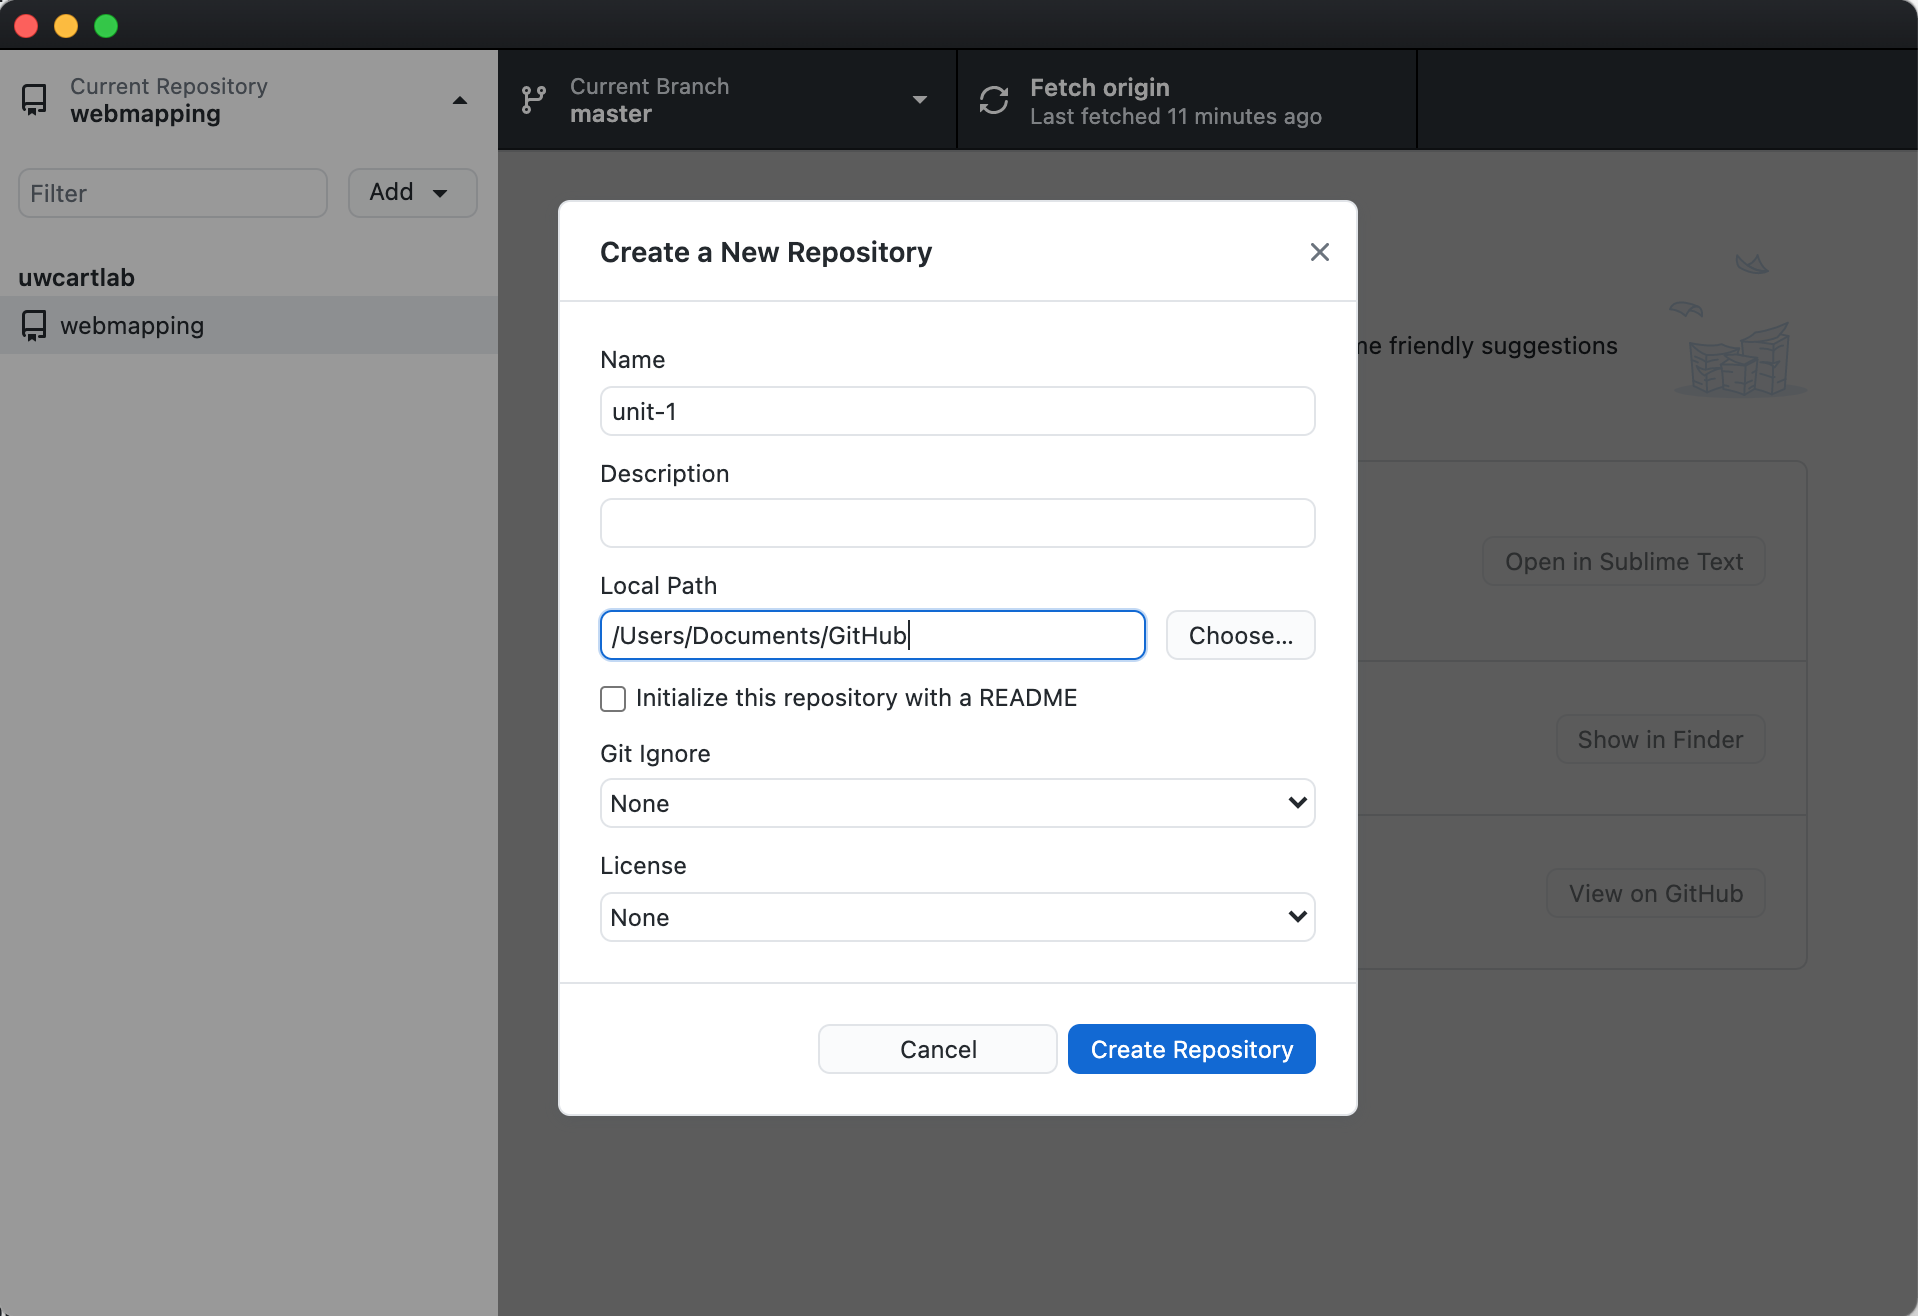
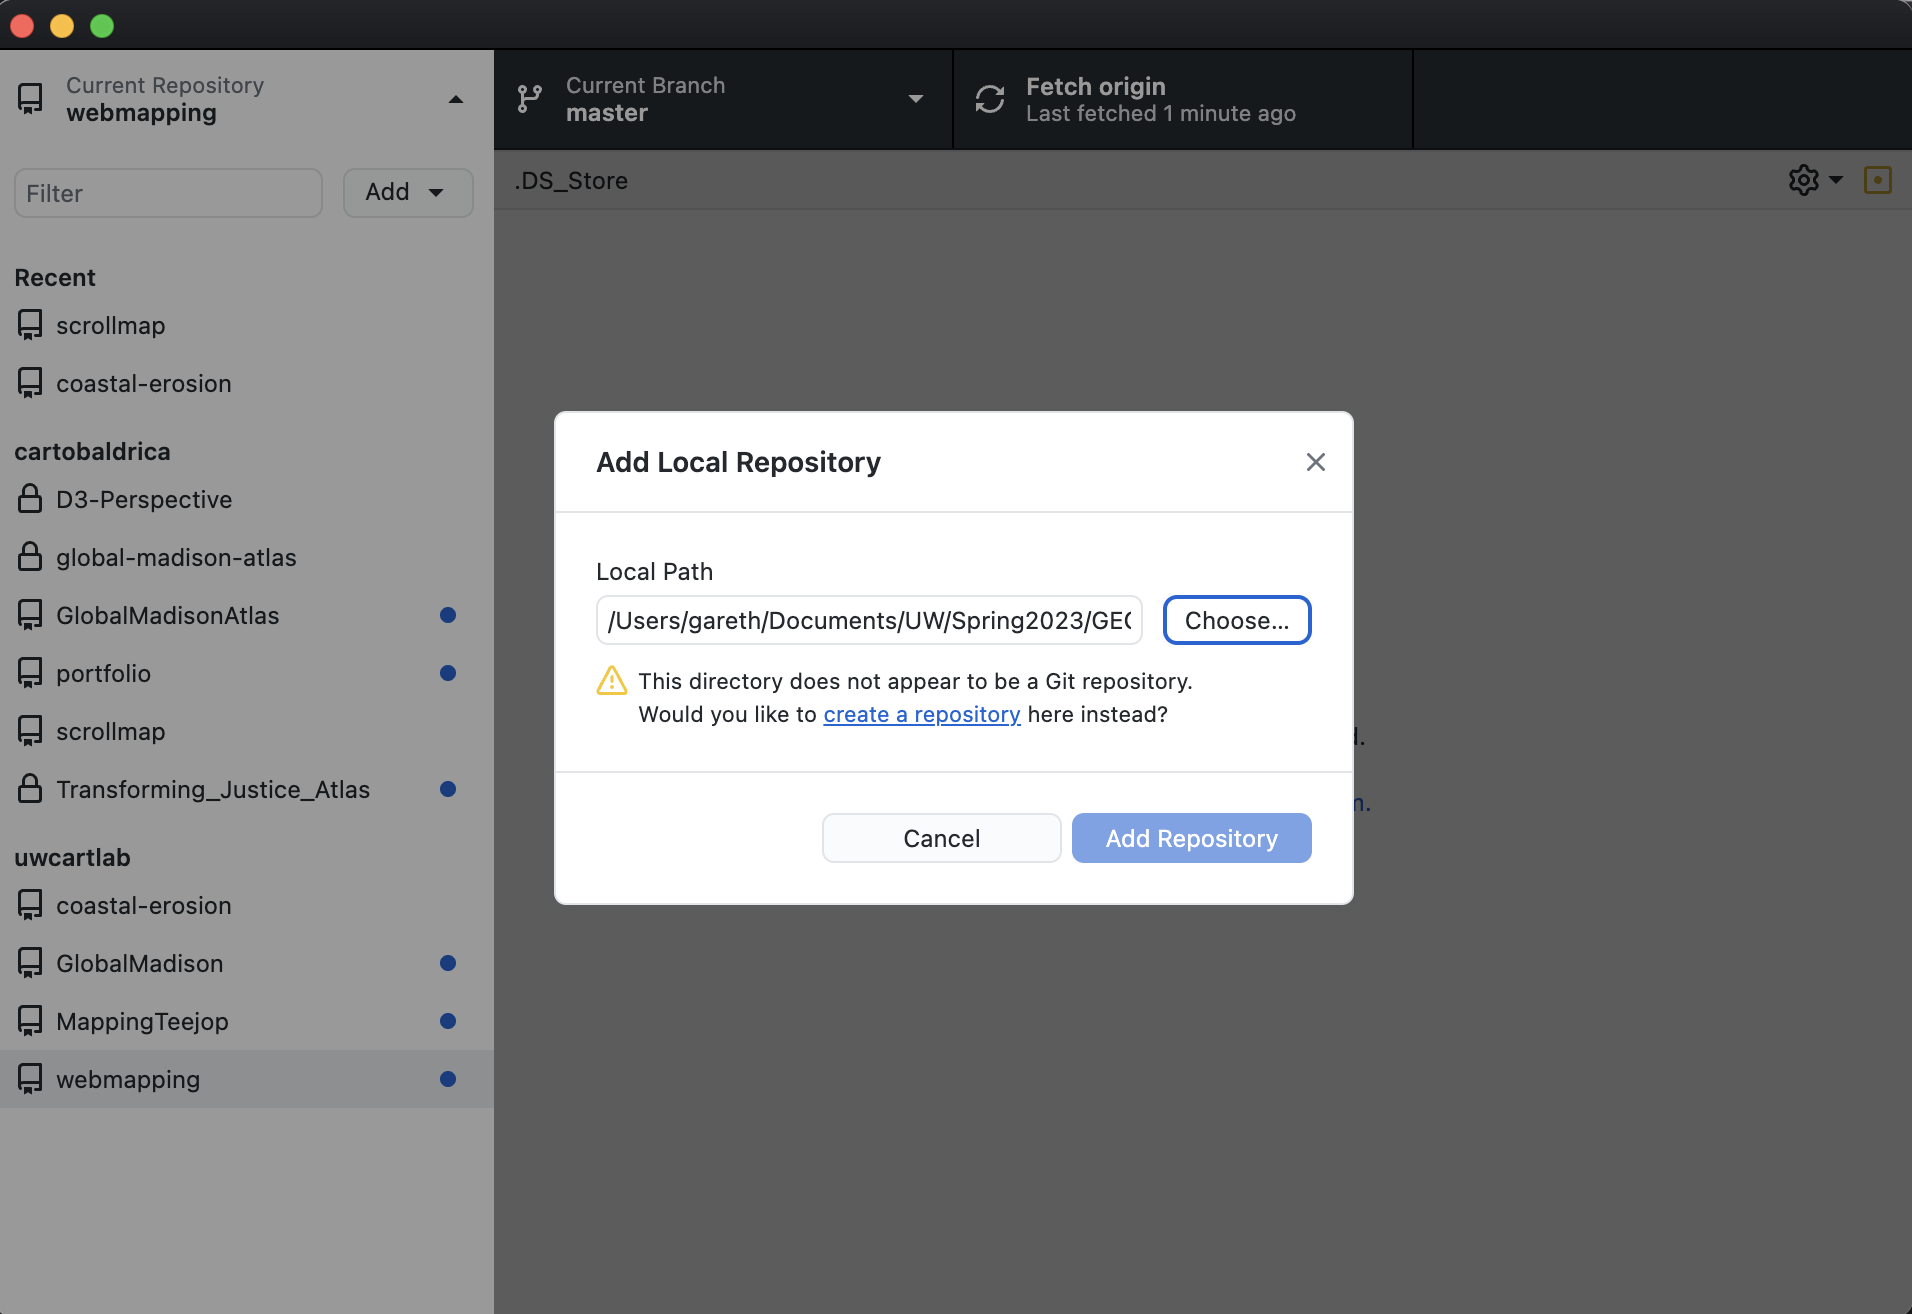
update chapter 01
-updated description of creating github repositories using github desktop

diff --git a/Chapter01/readme.md b/Chapter01/readme.md
@@ -256,15 +256,19 @@ For simplicity, we use [GitHub Desktop](https://desktop.github.com/) in lesson e
 
 The first step to setting up GitHub is to create a GitHub account, if you do not already have one. Go to [https://github.com/](https://github.com/), enter a username, e-mail, and password, and click "Sign up for GitHub."
 
-Then open GitHub Desktop and log in. Click "Current repository" in the upper-left corner of the application, then click "Add" and choose "Create new repository...". Enter the name of your website, then in "Local path" navigate to the directory _containing_ your website directory, and click "Create repository" (Figure 3.2).
+Then open GitHub Desktop and log in. Click "Current repository" in the upper-left corner of the application, then click "Add" and choose "Add existing repository...". Choose your _unit-1_ folder. You will then get a warning saying that there is no repository in the selected folder. That's OK! There is a tiny blue link that says "create a repository" (shown underlined in Figure 3.2), click it.
 
-Importantly, if you first navigate to your website directory instead of the folder above it, the application will create a new directory _inside_ your website directory with the same name. Check the path shown in the "local path" text field to ensure you are syncing from the correct location on your computer.
-
-![figure1.3.2(new).png](img/figure1.3.2.png)
+![figure1.3.2.png](img/figure1.3.2.png)
 
 ###### Figure 3.2: Creating a repository in your _unit-1_ directory
 
-Once you have created the repository, open your the _unit-1_ directory on your machine and observe that three new files have been created (Figure 3.3):
+A new window will pop up (Figure 3.3). There, enter the name of your website, and click "Create repository". 
+
+![figure1.3.3.png](img/figure1.3.3.png)
+
+###### Figure 3.3: Setting up your _unit-1_ repository.
+
+Once you have created the repository, open your the _unit-1_ directory on your machine and observe that three new files have been created (Figure 3.4):
 
 *   **._git_**, a hidden folder that holds the snapshots of your files,
     
@@ -274,17 +278,17 @@ Once you have created the repository, open your the _unit-1_ directory on your m
     
 Note, if you are using a Mac, these files may be hidden. You can view hidden files by pressing `command-shift-dot`.
 
-![figure1.3.3.png](img/figure1.3.3.png)
+![figure1.3.4.png](img/figure1.3.4.png)
 
-###### Figure 3.3: Website directory with repository files
+###### Figure 3.4: Website directory with repository files
 
 <ins>_Never_</ins> tamper with the directories and files inside of the _.git_ folder, and for the most part you will not need to modify directly the other GitHub files in this class. You can change settings and add to the _.gitignore_ file through the GitHub application gear menu→"Repository" settings in the upper-right corner of the application window. You also can sign in to GitHub, manage your account, and configure Git through the gear menu→"Options". 
 
 Next, you need to publish your repository to GitHub. At the top of the page click "Publish repository". Name the repository _unit-1_ and add your name and "unit 1" as the description. Uncheck "Keep this code private" so others can see your repository. Finally, click "Publish Repository".
 
-![figure1.3.4.png](img/figure1.3.4.png)
+![figure1.3.5.png](img/figure1.3.5.png)
 
-###### Figure 3.3: Publishing a repository from GitHub Desktop
+###### Figure 3.5: Publishing a repository from GitHub Desktop
 
 You should end up with both a local repository in your website directory and a copy of the repository on your GitHub web page. Note that it is also possible to work in reverse order by creating a new repository on the GitHub website and then copying it over (i.e., _clone_ it) to your machine. The GitHub [Hello World Guide](https://guides.github.com/activities/hello-world/) provides details on this reverse process for future reference. We will return to this process in Activity 7.
 
